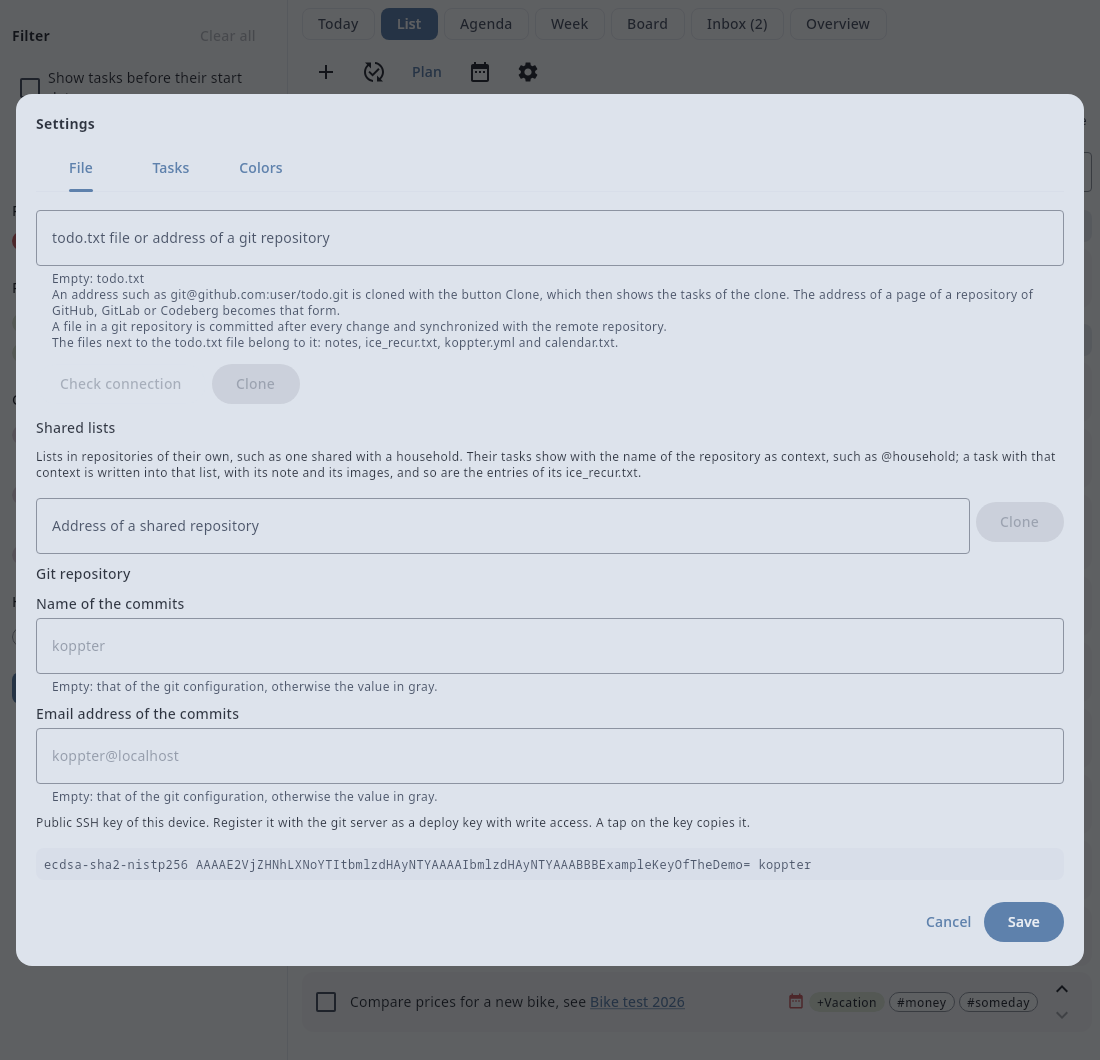
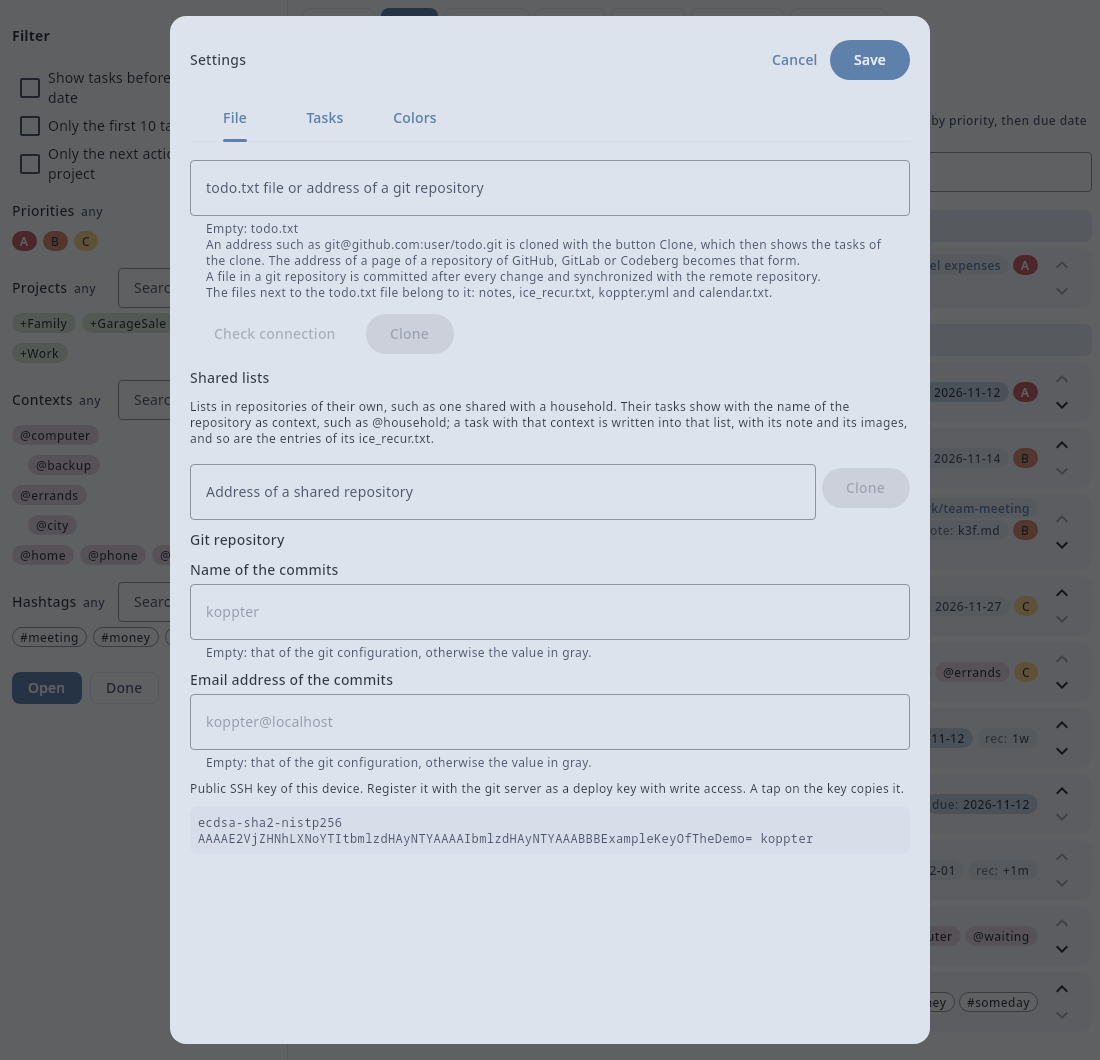
Keep the size of the settings when another tab is shown
The tabs of the settings differ in height, so the dialog grew and shrank at every switch of a tab. It now takes the height of the window.

diff --git a/app/src/commonMain/kotlin/io/github/koppor/koppter/ui/SettingsDialog.kt b/app/src/commonMain/kotlin/io/github/koppor/koppter/ui/SettingsDialog.kt
@@ -11,6 +11,7 @@ import androidx.compose.foundation.layout.ExperimentalLayoutApi
 import androidx.compose.foundation.layout.FlowRow
 import androidx.compose.foundation.layout.Row
 import androidx.compose.foundation.layout.Spacer
+import androidx.compose.foundation.layout.fillMaxHeight
 import androidx.compose.foundation.layout.fillMaxWidth
 import androidx.compose.foundation.layout.padding
 import androidx.compose.foundation.layout.widthIn
@@ -275,7 +276,8 @@ fun SettingsDialog(
     val initial = remember { state }
 
     GuardedDialog(changed = state != initial, onDismiss = onDismiss) {
-        Surface(shape = MaterialTheme.shapes.large, tonalElevation = 6.dp, modifier = Modifier.fillMaxWidth().testTag("settings-dialog")) {
+        // The full height: the tabs differ in height, and a dialog that took the height of each would change its size at every switch.
+        Surface(shape = MaterialTheme.shapes.large, tonalElevation = 6.dp, modifier = Modifier.fillMaxWidth().fillMaxHeight().testTag("settings-dialog")) {
             Column(Modifier.padding(20.dp), verticalArrangement = Arrangement.spacedBy(10.dp)) {
                 DialogHeading("Settings") {
                     TextButton(onClick = onDismiss, modifier = Modifier.testTag("settings-cancel")) { Text("Cancel") }

diff --git a/app/src/desktopTest/kotlin/io/github/koppor/koppter/ui/AppTest.kt b/app/src/desktopTest/kotlin/io/github/koppor/koppter/ui/AppTest.kt
@@ -1716,6 +1716,19 @@ class AppTest {
         onNodeWithTag("calendar-appointment", useUnmergedTree = true).assertHasNoClickAction()
     }
 
+    // [utest->dsn~settings-dialog~1]
+    @Test
+    fun theSettingsKeepTheirSizeWhenAnotherTabIsShown() = runDesktopComposeUiTest(width = 1280, height = 720) {
+        val controller = TodoController(Settings(), { storage }, today = { LocalDate(2026, 11, 12) }, outlook = FakeOutlook(blocks = 7))
+        setContent { App(controller, "todo.txt") }
+        onNodeWithTag("open-settings").performClick()
+        val file = onNodeWithTag("settings-dialog").getBoundsInRoot()
+        for (tab in listOf("tasks", "colors", "integrations")) {
+            onNodeWithTag("settings-tab-$tab").performClick()
+            assertEquals(file, onNodeWithTag("settings-dialog").getBoundsInRoot(), tab)
+        }
+    }
+
     // [utest->dsn~outlook-clear~1]
     @Test
     fun theBlocksOfKoppterAreRemovedFromOutlookAfterTheUserConfirmedTheirNumber() = runComposeUiTest {

diff --git a/CHANGELOG.md b/CHANGELOG.md
@@ -5,6 +5,12 @@ All notable changes to this project will be documented in this file.
 The format is based on [Keep a Changelog](https://keepachangelog.com/en/1.1.0/),
 and this project adheres to [Calendar Versioning](https://calver.org/) with the scheme `YYYY-0M-0D`.
 
+## [Unreleased]
+
+### Changed
+
+- The settings take the height of the window, so that the dialog keeps its size when another tab is shown.
+
 ## [2026-11-26] - 2026-11-26
 
 ### Added
@@ -458,6 +464,7 @@ and this project adheres to [Calendar Versioning](https://calver.org/) with the 
 - The release of a day on GitHub carries the signed Android application as an APK file.
 - Project infrastructure: Gradle build with a Kotlin Multiplatform `core` module, requirements tracing, decision records and continuous integration.
 
+[Unreleased]: https://github.com/contextswitcher/koppter/compare/v2026-11-26...HEAD
 [2026-11-26]: https://github.com/contextswitcher/koppter/compare/v2026-11-25...v2026-11-26
 [2026-11-25]: https://github.com/contextswitcher/koppter/compare/v2026-11-24...v2026-11-25
 [2026-11-24]: https://github.com/contextswitcher/koppter/compare/v2026-11-23...v2026-11-24

diff --git a/docs/requirements/ui.md b/docs/requirements/ui.md
@@ -1173,6 +1173,7 @@ Needs: impl
 `SettingsDialog` edits the location of the todo.txt file, the switch for writing dates, the number of top tasks, the board columns defined by filters, the names of the priorities, the links of projects and contexts and the colors.
 Tabs group the settings: File (the file, the shared lists and the git repository), Tasks, Colors, and Integrations where the platform offers Outlook, ContextSwitcher or LaTeX.
 The title, the tabs and the buttons stay in view while the content of a tab scrolls, and what was typed in a tab stays when another tab is shown.
+The dialog takes the height of the window, so that its edges stay where they are when another tab is shown.
 A changed location makes the controller load the other file.
 The fields for the board columns and the share actions hold what is in effect, which without a definition of the user are the defaults of the configuration.
 A field for a block of the configuration file shows an example in a pale color while it is empty.
